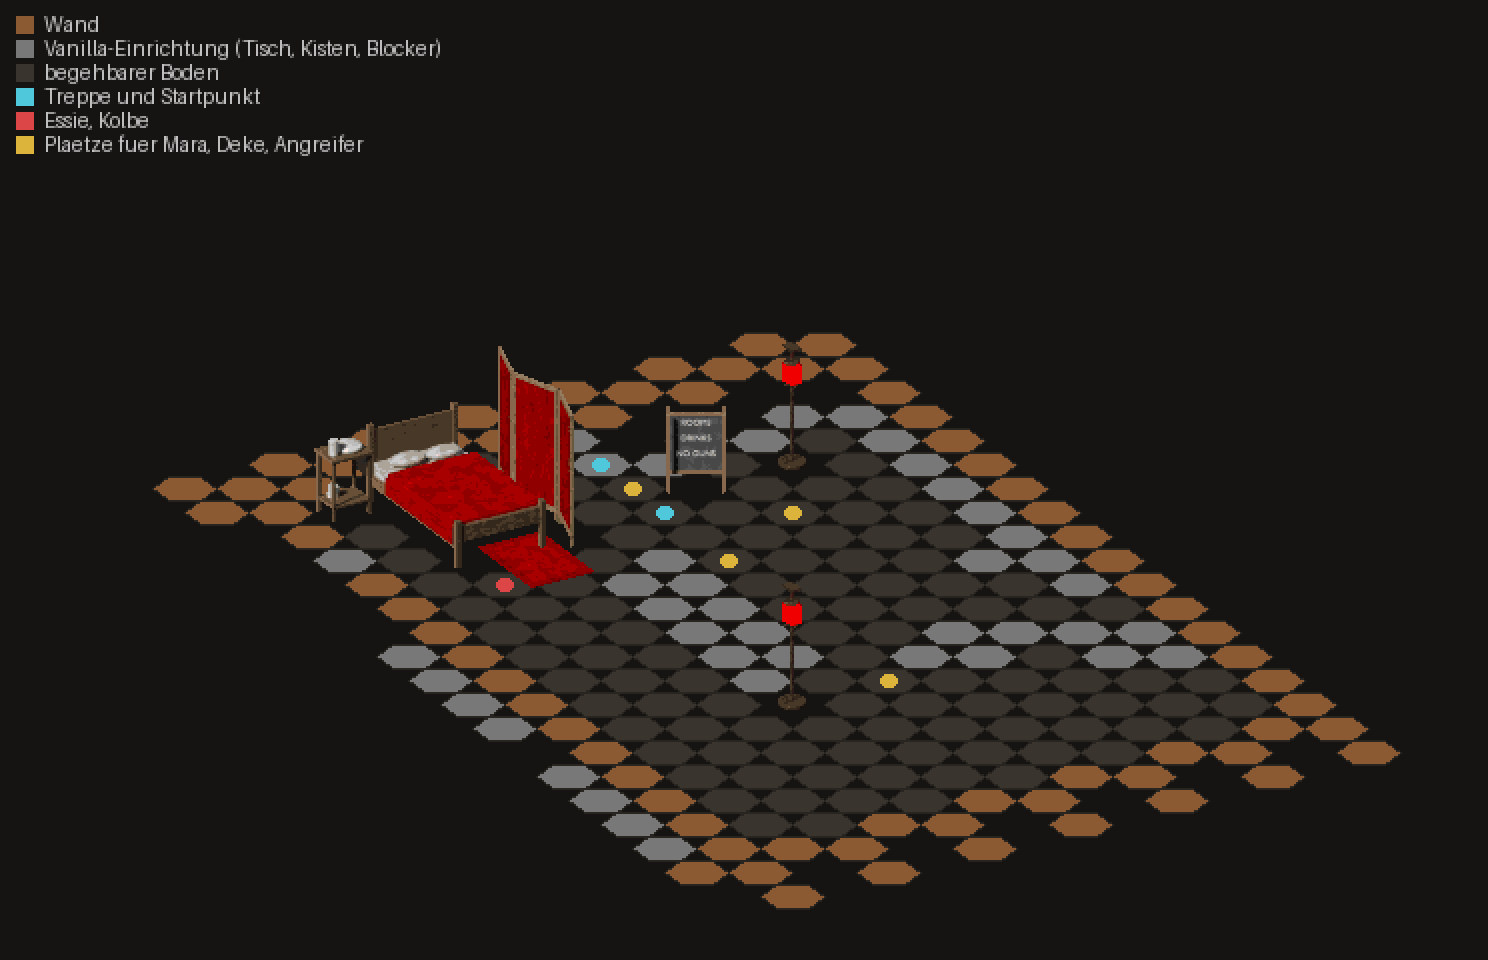
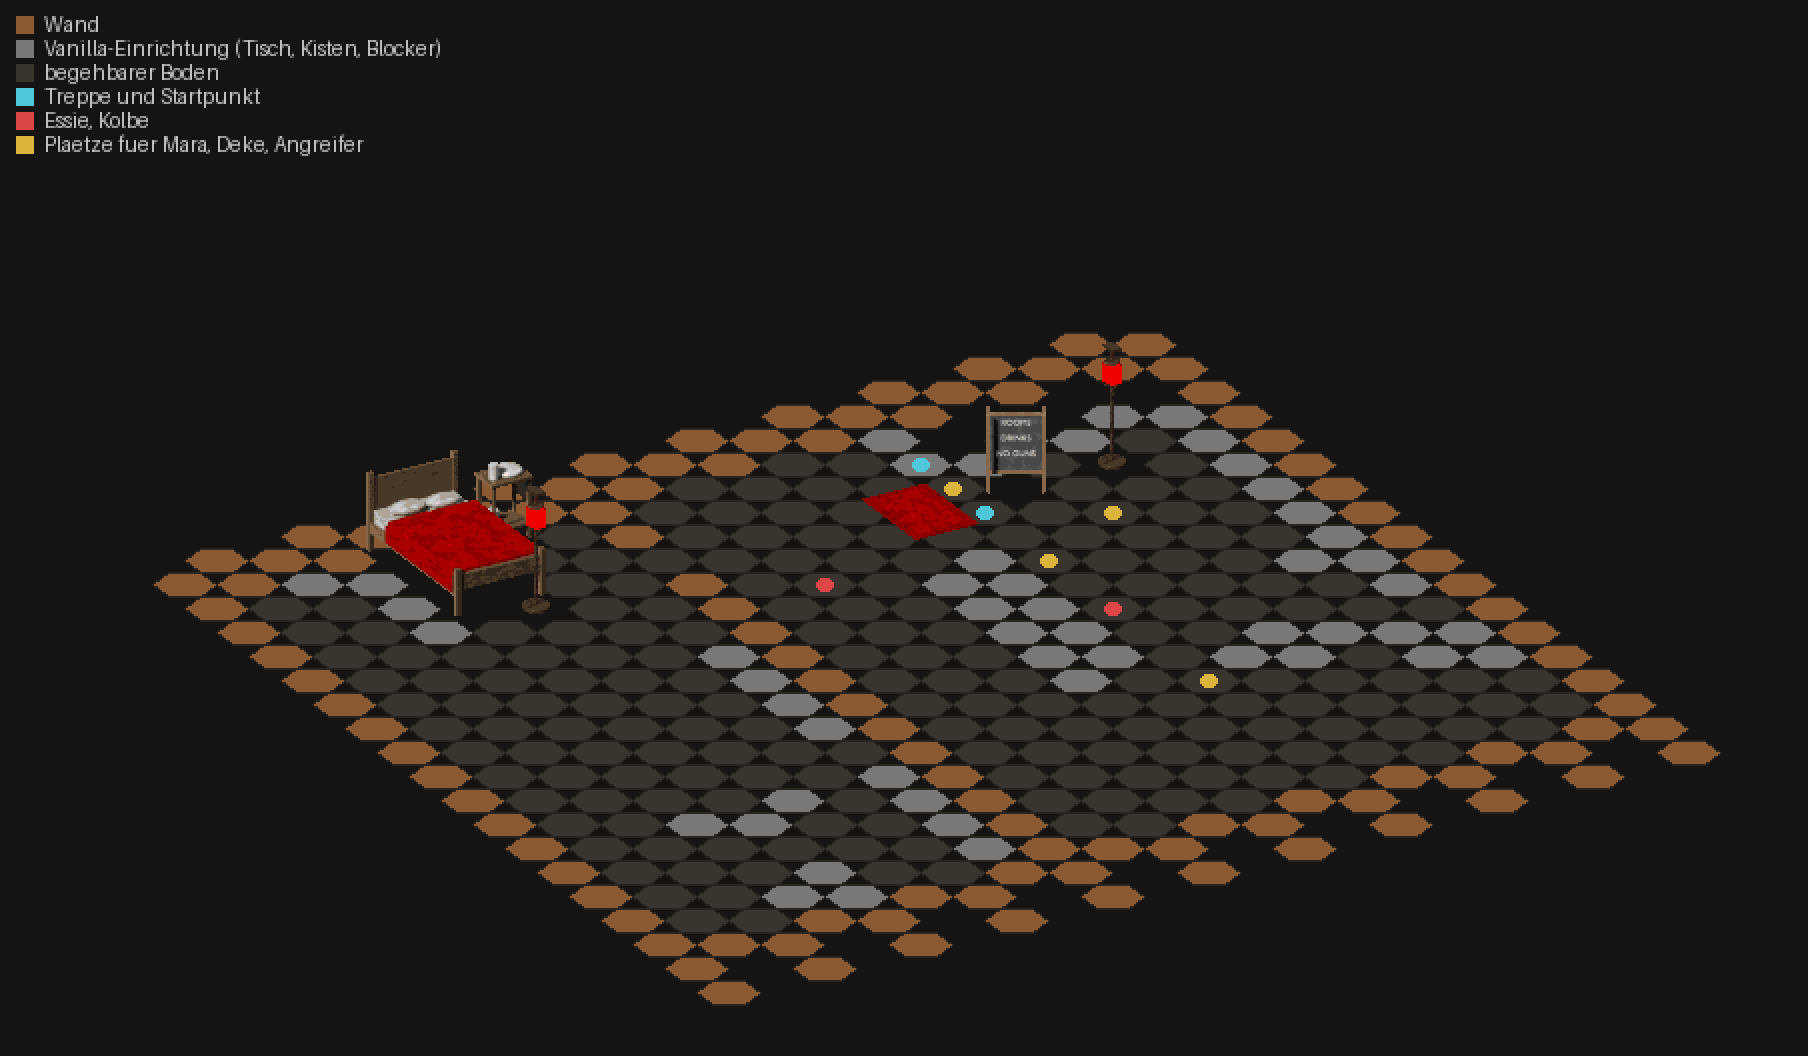
Gosse: Vorschau mit Zimmer, Ergebnis des Gesamtlaufs
Claude-Session: https://claude.ai/code/session_01TG1ZDbFjLH84JTEN9rj5ts

Changed region(s): [[0.0927, 0.3125, 0.9583, 0.9688], [0.0, 0.0, 0.3091, 0.1562]]

diff --git a/tools/grafik/gosse_bild.py b/tools/grafik/gosse_bild.py
@@ -23,7 +23,7 @@ import fomap  # noqa: E402
 import frm  # noqa: E402
 import geometrie as g  # noqa: E402
 
-REIHEN, SPALTEN = range(80, 99), range(59, 74)
+REIHEN, SPALTEN = range(80, 99), range(59, 81)
 
 
 def main():

diff --git a/docs/umsetzung-g1-grafik.md b/docs/umsetzung-g1-grafik.md
@@ -181,7 +181,7 @@ Neue Prüfungen in `bau_karten.py` (laufen bei jedem Bau, mit und ohne Einrichtu
 | Einbau mit künstlichen Listen | `szenerie.py`: Liste ohne letzten Zeilenumbruch, Nummern, Texte | OK |
 | Fertiges Paket gegenlesen | `szenerie.pruefe_paket` bei jedem `paket.py`-Lauf, für beide Releases: Grafikliste → FRM, Prototypliste → PRO (PID, FID, Textnummer, Untertyp), Texte in `pro_scen.msg`, jedes Objekt auf der Karte mit passender FID am erwarteten Feld | OK |
 | Karte | Round-Trip byte-gleich, Wegeprüfung (Abschnitt 5) | OK |
-| Gesamtlauf | Builds RPU 2.4.34 und 2.3.34 mit allen Tests, Unofficial Patch, beide Pakete | je 79 Tests grün, Unofficial Patch gebaut, beide Pakete mit 11 Grafiken |
+| Gesamtlauf (zweiter Stand) | Builds RPU 2.4.34 und 2.3.34 mit allen Tests, Unofficial Patch, beide Pakete | je 79 Tests grün, Unofficial Patch gebaut, beide Pakete mit 11 Grafiken |
 
 ---
 
